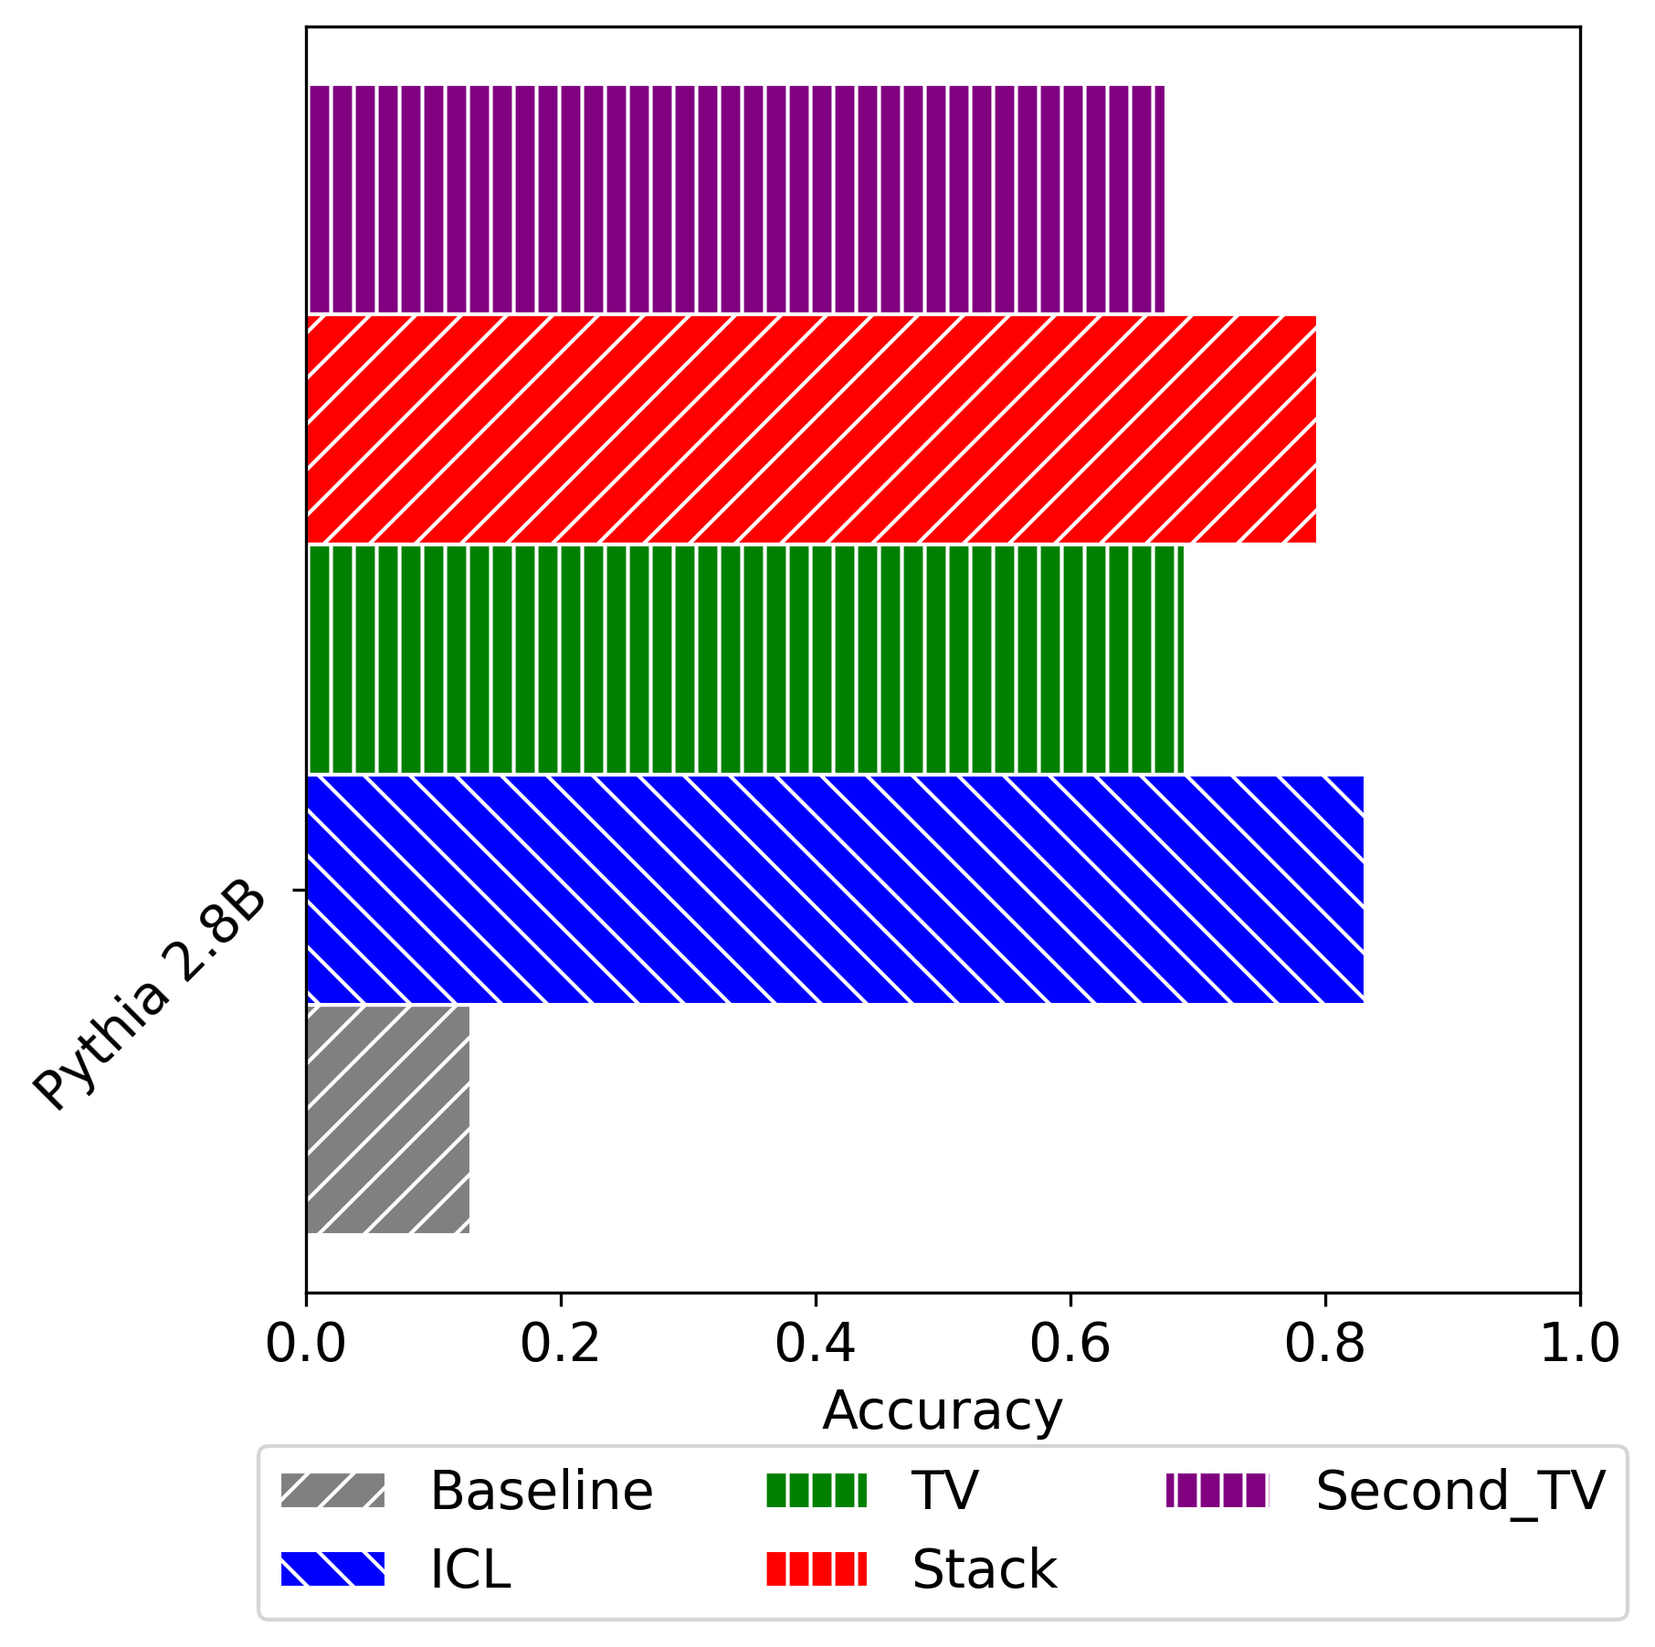
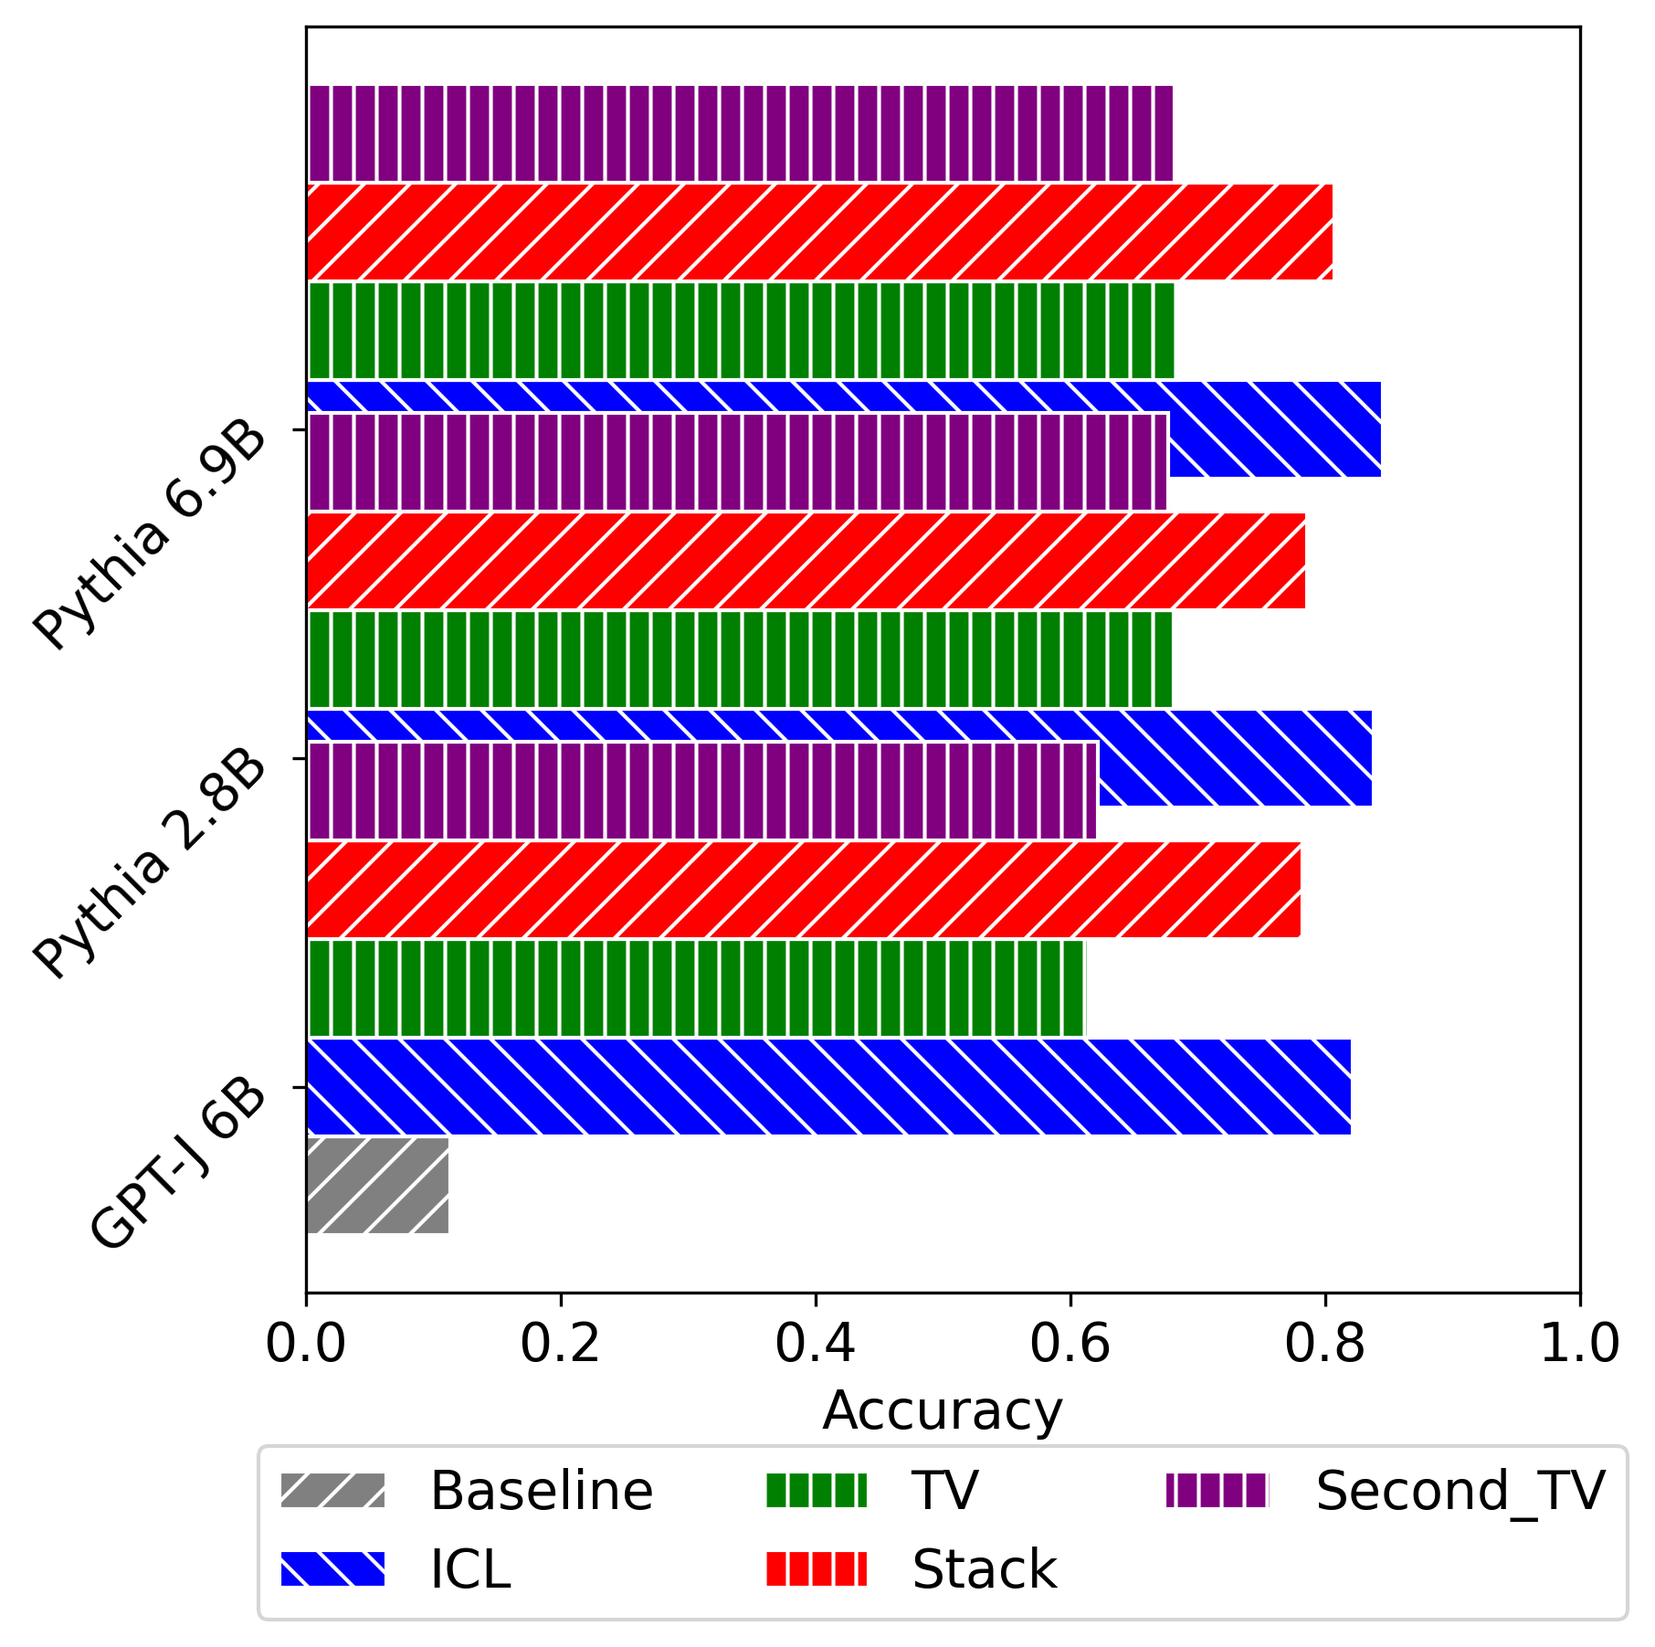
three layers

diff --git a/outputs/figures/main_experiment_results_table.tex b/outputs/figures/main_experiment_results_table.tex
@@ -19,27 +19,71 @@ Model & Task type & Task name &  &  &  &  &  \\
 \midrule
     \endhead
     
-\multirow[t]{18}{*}{Pythia 2.8B} & \multirow[t]{6}{*}{Algorithmic} & List first & 0.65 & 1.00 & 0.88 & 1.00 & 0.92 \\
- &  & List last & 0.02 & 1.00 & 0.97 & 0.99 & 0.93 \\
- &  & Next letter & 0.42 & 0.94 & 0.85 & 0.98 & 0.85 \\
- &  & Prev letter & 0.06 & 0.50 & 0.22 & 0.11 & 0.27 \\
- &  & To lower & 0.00 & 1.00 & 0.96 & 1.00 & 0.97 \\
- &  & To upper & 0.00 & 1.00 & 0.97 & 1.00 & 0.97 \\
+\multirow[t]{18}{*}{GPT-J 6B} & \multirow[t]{6}{*}{Algorithmic} & List first & 0.23 & 1.00 & 0.80 & 1.00 & 0.75 \\
+ &  & List last & 0.31 & 1.00 & 0.61 & 0.97 & 0.59 \\
+ &  & Next letter & 0.17 & 0.86 & 0.93 & 0.74 & 0.96 \\
+ &  & Prev letter & 0.14 & 0.38 & 0.30 & 0.34 & 0.31 \\
+ &  & To lower & 0.00 & 1.00 & 0.40 & 1.00 & 0.46 \\
+ &  & To upper & 0.00 & 1.00 & 0.81 & 1.00 & 0.89 \\
 \cline{2-8}
- & \multirow[t]{4}{*}{Knowledge} & Country capital & 0.12 & 0.64 & 0.53 & 0.60 & 0.51 \\
- &  & Location continent & 0.00 & 0.82 & 0.52 & 0.60 & 0.60 \\
- &  & Location religion & 0.04 & 0.87 & 0.70 & 0.78 & 0.69 \\
- &  & Person language & 0.01 & 0.80 & 0.75 & 0.82 & 0.76 \\
+ & \multirow[t]{4}{*}{Knowledge} & Country capital & 0.14 & 0.82 & 0.53 & 0.70 & 0.57 \\
+ &  & Location continent & 0.03 & 0.85 & 0.53 & 0.68 & 0.49 \\
+ &  & Location religion & 0.12 & 0.84 & 0.68 & 0.84 & 0.66 \\
+ &  & Person language & 0.02 & 0.82 & 0.69 & 0.79 & 0.70 \\
 \cline{2-8}
- & \multirow[t]{4}{*}{Linguistic} & Antonyms & 0.40 & 0.73 & 0.62 & 0.71 & 0.62 \\
- &  & Plural singular & 0.06 & 0.81 & 0.65 & 0.80 & 0.79 \\
- &  & Present simple gerund & 0.00 & 0.96 & 0.84 & 0.97 & 0.84 \\
- &  & Present simple past simple & 0.00 & 0.92 & 0.83 & 0.94 & 0.81 \\
+ & \multirow[t]{4}{*}{Linguistic} & Antonyms & 0.28 & 0.75 & 0.68 & 0.75 & 0.62 \\
+ &  & Plural singular & 0.07 & 0.88 & 0.76 & 0.84 & 0.75 \\
+ &  & Present simple gerund & 0.00 & 0.96 & 0.72 & 0.95 & 0.69 \\
+ &  & Present simple past simple & 0.01 & 0.96 & 0.59 & 0.94 & 0.56 \\
 \cline{2-8}
- & \multirow[t]{4}{*}{Translation} & En es & 0.07 & 0.76 & 0.18 & 0.77 & 0.23 \\
- &  & En fr & 0.13 & 0.57 & 0.34 & 0.62 & 0.36 \\
- &  & Es en & 0.16 & 0.85 & 0.70 & 0.83 & 0.66 \\
- &  & Fr en & 0.20 & 0.80 & 0.64 & 0.78 & 0.65 \\
+ & \multirow[t]{4}{*}{Translation} & En es & 0.17 & 0.49 & 0.36 & 0.44 & 0.34 \\
+ &  & En fr & 0.20 & 0.47 & 0.35 & 0.41 & 0.36 \\
+ &  & Es en & 0.07 & 0.88 & 0.80 & 0.85 & 0.74 \\
+ &  & Fr en & 0.08 & 0.82 & 0.66 & 0.85 & 0.61 \\
+\cline{1-8} \cline{2-8}
+\multirow[t]{18}{*}{Pythia 2.8B} & \multirow[t]{6}{*}{Algorithmic} & List first & 0.65 & 1.00 & 0.91 & 1.00 & 0.95 \\
+ &  & List last & 0.02 & 1.00 & 1.00 & 1.00 & 0.99 \\
+ &  & Next letter & 0.49 & 0.90 & 0.76 & 0.90 & 0.81 \\
+ &  & Prev letter & 0.05 & 0.44 & 0.24 & 0.14 & 0.26 \\
+ &  & To lower & 0.00 & 1.00 & 0.99 & 1.00 & 1.00 \\
+ &  & To upper & 0.00 & 1.00 & 0.96 & 1.00 & 0.99 \\
+\cline{2-8}
+ & \multirow[t]{4}{*}{Knowledge} & Country capital & 0.13 & 0.72 & 0.64 & 0.71 & 0.66 \\
+ &  & Location continent & 0.03 & 0.88 & 0.55 & 0.55 & 0.55 \\
+ &  & Location religion & 0.09 & 0.86 & 0.70 & 0.79 & 0.68 \\
+ &  & Person language & 0.02 & 0.80 & 0.74 & 0.76 & 0.66 \\
+\cline{2-8}
+ & \multirow[t]{4}{*}{Linguistic} & Antonyms & 0.42 & 0.81 & 0.71 & 0.82 & 0.69 \\
+ &  & Plural singular & 0.08 & 0.82 & 0.66 & 0.70 & 0.65 \\
+ &  & Present simple gerund & 0.00 & 0.99 & 0.84 & 0.97 & 0.86 \\
+ &  & Present simple past simple & 0.00 & 0.90 & 0.85 & 0.95 & 0.84 \\
+\cline{2-8}
+ & \multirow[t]{4}{*}{Translation} & En es & 0.07 & 0.68 & 0.16 & 0.71 & 0.16 \\
+ &  & En fr & 0.12 & 0.70 & 0.16 & 0.56 & 0.20 \\
+ &  & Es en & 0.07 & 0.82 & 0.69 & 0.80 & 0.68 \\
+ &  & Fr en & 0.17 & 0.76 & 0.62 & 0.76 & 0.64 \\
+\cline{1-8} \cline{2-8}
+\multirow[t]{18}{*}{Pythia 6.9B} & \multirow[t]{6}{*}{Algorithmic} & List first & 0.37 & 1.00 & 0.96 & 1.00 & 0.99 \\
+ &  & List last & 0.11 & 1.00 & 0.62 & 0.99 & 0.62 \\
+ &  & Next letter & 0.04 & 0.86 & 0.64 & 0.79 & 0.62 \\
+ &  & Prev letter & 0.08 & 0.35 & 0.26 & 0.17 & 0.25 \\
+ &  & To lower & 0.00 & 1.00 & 0.99 & 1.00 & 1.00 \\
+ &  & To upper & 0.00 & 1.00 & 0.84 & 1.00 & 0.82 \\
+\cline{2-8}
+ & \multirow[t]{4}{*}{Knowledge} & Country capital & 0.10 & 0.79 & 0.66 & 0.79 & 0.72 \\
+ &  & Location continent & 0.03 & 0.82 & 0.60 & 0.62 & 0.55 \\
+ &  & Location religion & 0.12 & 0.85 & 0.71 & 0.84 & 0.74 \\
+ &  & Person language & 0.02 & 0.82 & 0.71 & 0.84 & 0.72 \\
+\cline{2-8}
+ & \multirow[t]{4}{*}{Linguistic} & Antonyms & 0.39 & 0.84 & 0.68 & 0.88 & 0.72 \\
+ &  & Plural singular & 0.12 & 0.95 & 0.76 & 0.91 & 0.85 \\
+ &  & Present simple gerund & 0.00 & 0.99 & 0.86 & 0.95 & 0.85 \\
+ &  & Present simple past simple & 0.01 & 0.95 & 0.82 & 0.94 & 0.85 \\
+\cline{2-8}
+ & \multirow[t]{4}{*}{Translation} & En es & 0.14 & 0.68 & 0.36 & 0.65 & 0.33 \\
+ &  & En fr & 0.15 & 0.74 & 0.30 & 0.60 & 0.30 \\
+ &  & Es en & 0.07 & 0.86 & 0.81 & 0.86 & 0.75 \\
+ &  & Fr en & 0.14 & 0.71 & 0.68 & 0.70 & 0.61 \\
 \cline{1-8} \cline{2-8}
 \bottomrule
 \end{longtable}

diff --git a/scripts/figures/main.py b/scripts/figures/main.py
@@ -39,7 +39,7 @@ def filter_tasks_with_low_icl_accuracy(grouped_accuracies_df, regular_accuracy_t
 def plot_avg_accuracies_per_model(grouped_accuracies_df):
     filtered_task_accuracies_df = filter_tasks_with_low_icl_accuracy(grouped_accuracies_df)
 
-    columns_to_plot = ["Baseline", "Regular", "TV", "Stack", "Second_TV"]
+    columns_to_plot = ["Baseline", "Regular", "TV", "Stack", "Second_TV", "Third_TV"]
 
     # Calculate average accuracy and std deviation for each model
     df_agg = filtered_task_accuracies_df.groupby("model")[columns_to_plot].agg("mean")
@@ -56,7 +56,7 @@ def plot_avg_accuracies_per_model(grouped_accuracies_df):
     fig, ax = plt.subplots(figsize=(6, 6))
 
     bar_width = 0.3
-    hatches = ["/", "\\", "|", "/", "|"]
+    hatches = ["/", "\\", "|", "/", "\\", "|"]
     for j, column in enumerate(columns_to_plot):
         means = df_agg[column]
         y_positions = np.arange(len(means)) + (j - 1) * bar_width
@@ -66,7 +66,7 @@ def plot_avg_accuracies_per_model(grouped_accuracies_df):
             means,
             height=bar_width,
             capsize=2,
-            color=["grey", "blue", "green", "red", "purple"][j],
+            color=["grey", "blue", "green", "red", "purple", "cyan"][j],
             edgecolor="white",
             hatch=hatches[j] * 2,
         )
@@ -84,8 +84,9 @@ def plot_avg_accuracies_per_model(grouped_accuracies_df):
         Patch(facecolor="grey", edgecolor="white", hatch=hatches[0] * 2, label="Baseline"),
         Patch(facecolor="blue", edgecolor="white", hatch=hatches[1] * 2, label="ICL"),
         Patch(facecolor="green", edgecolor="white", hatch=hatches[2] * 2, label="TV"),
-        Patch(facecolor="red", edgecolor="white", hatch=hatches[2] * 2, label="Stack"),
-        Patch(facecolor="purple", edgecolor="white", hatch=hatches[2] * 2, label="Second_TV")
+        Patch(facecolor="red", edgecolor="white", hatch=hatches[3] * 2, label="Stack"),
+        Patch(facecolor="purple", edgecolor="white", hatch=hatches[4] * 2, label="Second_TV"),
+        Patch(facecolor="cyan", edgecolor="white", hatch=hatches[5] * 2, label="Third_TV")
     ]
     ax.legend(handles=legend_elements, loc="upper center", bbox_to_anchor=(0.5, -0.1), ncol=3)
 
@@ -119,7 +120,7 @@ def plot_accuracy_by_layer(results, model_names: List[str], normalize_x_axis: bo
     markers = ["o", "^", "s", "P", "X", "D", "v"]
 
     for idx, model_name in enumerate(model_names):
-        for acc_layer in ["tv_dev_accruacy_by_layer", "tv_dev_accruacy_by_layer2"]:
+        for acc_layer in ["tv_dev_accruacy_by_layer"]:#, "tv_dev_accruacy_by_layer2"]:
             min_num_layers = min(
                 len(results[model_name][task_name][acc_layer]) for task_name in results[model_name]
             )
@@ -244,7 +245,7 @@ def create_top_tokens_table(results):
         "knowledge_country_capital",
     ]
 
-    model_names = ["pythia_2.8B"]
+    model_names = ["pythia_2.8B", "gpt-j_6B"]
 
     df_data = {}
 
@@ -305,12 +306,12 @@ def create_all_figures(experiment_id: str):
     plot_avg_accuracies_per_model(grouped_accuracies_df)
   #  plot_accuracy_by_layer(results, model_names=["llama_7B", "llama_13B", "llama_30B"])
     plot_accuracy_by_layer(
-        results, model_names=["pythia_2.8B"], filename_suffix="_appendix"
+        results, model_names=["pythia_2.8B", "gpt-j_6B"], filename_suffix="_appendix"
     )
     create_results_latex_table(grouped_accuracies_df)
     create_top_tokens_table(results)
 
 
 if __name__ == "__main__":
-    experiment_id = "1"
+    experiment_id = "2"
     create_all_figures(experiment_id)

diff --git a/outputs/figures/top_tokens_table.tex b/outputs/figures/top_tokens_table.tex
@@ -2,10 +2,20 @@
 \toprule
  &  & 0 \\
 \midrule
-\multirow[t]{4}{*}{pythia_2.8B} & algorithmic_prev_letter & thous, aeda, preced, preceded, OOST, preceding, estern, ovember, prehens, e, previous, finishing, CURI, CLUDING, IRST, none, advertis, perty, f, gether \\
- & translation_fr_en & OOST, CURI, CHANT, Anchor, HECK, orect, IRST, BASIS, Lemmon, aturday, CLUDING, PLIED, RAF, rugged, quo, unnumbered, gree, fileID, ERTY, STITUTE \\
- & linguistic_present_simple_gerund & PLIED, RAF, CHANT, completing, OOST, YING, turning, satell, pretending, IRST, CLUDING, unnumbered, having, rv, cler, HECK, GAN, fileID, finishing, POSE \\
- & knowledge_country_capital & thous, answ, HECK, OOST, advertis, POSE, establ, CURI, laug, uncert, clust, acknow, NaN, orche, rg, ITERATION, IRST, redund, dun, therap \\
+\multirow[t]{4}{*}{pythia_2.8B} & algorithmic_prev_letter & thous, aeda, preced, preceded, OOST, preceding, e, estern, previous, finishing, none, prehens, ovember, f, FileType, CLUDING, IRST, bgcolor, alphabet, gether \\
+ & translation_fr_en & OOST, CHANT, CURI, HECK, orect, Anchor, IRST, Lemmon, aturday, BASIS, CLUDING, unnumbered, RAF, PLIED, fileID, rugged, quo, gree, empre, ERTY \\
+ & linguistic_present_simple_gerund & PLIED, RAF, CHANT, OOST, completing, satell, YING, turning, pretending, IRST, CLUDING, unnumbered, fileID, having, HECK, heed, referring, cler, rv, GAN \\
+ & knowledge_country_capital & thous, answ, HECK, OOST, advertis, POSE, laug, establ, uncert, CURI, clust, acknow, orche, IRST, NaN, strugg, ITERATION, rg, satell, therap \\
+\cline{1-3}
+\multirow[t]{4}{*}{gpt-j_6B} & algorithmic_prev_letter & b, c, g, v, name, s, i, ro, n, ai, j, A, t, m, d, com, test, ust, active, ms \\
+ & translation_fr_en & social, other, heart, the, c, name, main, time, force, money, life, user, law, head, car, true, game, court, is, type \\
+ & linguistic_present_simple_gerund & working, playing, getting, storing, driving, doing, moving, selling, shooting, picking, beating, sending, writing, feeding, planning, killing, teaching, searching, making, the \\
+ & knowledge_country_capital & London, Paris, West, South, Tokyo, New, Philadelphia, East, City, Berlin, Chicago, San, Jerusalem, Moscow, cities, North, Athens, Toronto, Beijing, The \\
+\cline{1-3}
+\multirow[t]{4}{*}{pythia_6.9B} & algorithmic_prev_letter & e, d, m, a, b, r, t, i, c, k, l, s, f, v, g, n, h, w, p, o \\
+ & translation_fr_en & d, mark, f, l, m, n, o, number, e, body, free, t, pl, a, name, in, end, surface, and, c \\
+ & linguistic_present_simple_gerund & f, m, l, n, d, a, un, dem, ar, pl, mark, and, o, in, the, end, E, leading, over, ro \\
+ & knowledge_country_capital & L, central, N, K, B, the, M, T, D, S, U, West, its, a, O, Al, F, P, J, un \\
 \cline{1-3}
 \bottomrule
 \end{tabular}

diff --git a/core/task_vectors.py b/core/task_vectors.py
@@ -129,10 +129,10 @@ def run_stack_task_vector(
         include_train=True
     )
 
-    # stack twice
+    # stack twice hidden
     new_task_hiddens = get_task_hiddens(model, tokenizer, task, new_test_datasets, multi_context=multi_context,
                                         moderate=True, prev_hiddens=task_hiddens, prev_intermediate_layer=best_intermediate_layer)
-
+    """
     dev_accuracy_by_layer_second = task_vector_accuracy_by_layer(
         model,
         tokenizer,
@@ -145,7 +145,8 @@ def run_stack_task_vector(
         prev_intermediate_layer=best_intermediate_layer
     )
     best_intermediate_layer_second = int(max(dev_accuracy_by_layer_second, key=dev_accuracy_by_layer_second.get))
-    print('compare', best_intermediate_layer, best_intermediate_layer_second)
+    """
+    best_intermediate_layer_second = best_intermediate_layer
     second_predictions_stack = modulated_generate(
         model,
         tokenizer,
@@ -155,7 +156,39 @@ def run_stack_task_vector(
         intermediate_layer=best_intermediate_layer_second,
   #      include_train=True
     )
-    return predictions, predictions_stack, second_predictions_stack, dev_accuracy_by_layer, task_hiddens, dev_accuracy_by_layer_second
+
+    # stack three times
+    new_ins = []
+    new_outs = []
+    for idx, dataset in enumerate(test_datasets):
+        exclude_samples = [dataset.test_input] + dataset.train_inputs
+        new_in = task.sample_inputs(num_examples, exclude=exclude_samples)
+        new_ins.append(new_in)
+        new_out = [task.calc_output(x) for x in new_in]
+        new_outs.append(new_out)
+    new_test_datasets = [
+        FewShotDataset(
+            train_inputs=new_ins[idx],
+            train_outputs=new_outs[idx],
+            test_input=dataset.test_input,
+            test_output=task.calc_output(dataset.test_input),
+        )
+        for idx, dataset in enumerate(test_datasets)
+    ]
+    new_task_hiddens = get_task_hiddens(model, tokenizer, task, new_test_datasets, multi_context=multi_context,
+                                        moderate=True, prev_hiddens=new_task_hiddens,
+                                        prev_intermediate_layer=best_intermediate_layer)
+    best_intermediate_layer_third = best_intermediate_layer
+    third_predictions_stack = modulated_generate(
+        model,
+        tokenizer,
+        task,
+        test_datasets,
+        task_hiddens=new_task_hiddens,
+        intermediate_layer=best_intermediate_layer_third,
+        #      include_train=True
+    )
+    return predictions, predictions_stack, second_predictions_stack, dev_accuracy_by_layer, task_hiddens, third_predictions_stack
 
 def run_overriding_task_vector(
     model: PreTrainedModel,

diff --git a/scripts/experiments/main.py b/scripts/experiments/main.py
@@ -46,7 +46,7 @@ def evaluate_task(model: PreTrainedModel, tokenizer: PreTrainedTokenizer, task_n
     test_datasets = task.create_datasets(num_datasets=num_test_datasets, num_examples=num_examples)
     dev_datasets = task.create_datasets(num_datasets=num_dev_datasets, num_examples=num_examples)
     icl_predictions = run_icl(model, tokenizer, task, test_datasets)
-    tv_predictions, tv_predictions_stack, tv_predictions_stack_2, tv_dev_accuracy_by_layer, task_hiddens, tv_dev_accuracy_by_layer2 = run_stack_task_vector(
+    tv_predictions, tv_predictions_stack, tv_predictions_stack_2, tv_dev_accuracy_by_layer, task_hiddens, tv_predictions_stack_3 = run_stack_task_vector(
         model,
         tokenizer,
         task,
@@ -56,11 +56,11 @@ def evaluate_task(model: PreTrainedModel, tokenizer: PreTrainedTokenizer, task_n
         num_examples=num_examples
     )
     accuracies["tv_dev_by_layer"] = tv_dev_accuracy_by_layer
-    accuracies["tv_dev_by_layer2"] = tv_dev_accuracy_by_layer2
     accuracies["icl"] = calculate_accuracy_on_datasets(task, icl_predictions, test_datasets)
     accuracies["tv"] = calculate_accuracy_on_datasets(task, tv_predictions, test_datasets)
     accuracies["tv_stack"] = calculate_accuracy_on_datasets(task, tv_predictions_stack, test_datasets)
     accuracies["tv_stack2"] = calculate_accuracy_on_datasets(task, tv_predictions_stack_2, test_datasets)
+    accuracies["tv_stack3"] = calculate_accuracy_on_datasets(task, tv_predictions_stack_3, test_datasets)
 
     tv_ordered_tokens_by_layer = {}
     try:
@@ -121,6 +121,7 @@ def run_main_experiment(
         print(f"Task Vector Accuracy: {accuracies['tv']:.2f}")
         print(f"Stack Task Vector Accuracy: {accuracies['tv_stack']:.2f}")
         print(f"Second Stack Task Vector Accuracy: {accuracies['tv_stack2']:.2f}")
+        print(f"Third Stack Task Vector Accuracy: {accuracies['tv_stack3']:.2f}")
 
         print(f"Dev Accuracy by layer: ", end="")
         for layer, accuracy in accuracies["tv_dev_by_layer"].items():
@@ -135,8 +136,8 @@ def run_main_experiment(
             "tv_accuracy": accuracies["tv"],
             "stack_tv_accuracy": accuracies["tv_stack"],
             "second_tv_accuracy": accuracies["tv_stack2"],
+            "third_tv_accuracy": accuracies["tv_stack3"],
             "tv_dev_accruacy_by_layer": accuracies["tv_dev_by_layer"],
-            "tv_dev_accruacy_by_layer2": accuracies["tv_dev_by_layer2"],
             "tv_ordered_tokens_by_layer": tv_ordered_tokens_by_layer,
         }
 

diff --git a/scripts/figures/helpers.py b/scripts/figures/helpers.py
@@ -73,6 +73,7 @@ def create_accuracies_df(results):
             data.append([model_name, task_type, task_name, "TV", task_acc["tv"]])
             data.append([model_name, task_type, task_name, "Stack", task_acc["stack_tv_accuracy"]])
             data.append([model_name, task_type, task_name, "Second_TV", task_acc["second_tv_accuracy"]])
+            data.append([model_name, task_type, task_name, "Third_TV", task_acc["third_tv_accuracy"]])
 
 
     df = pd.DataFrame(data, columns=["model", "task_type", "task_name", "method", "accuracy"])

diff --git a/core/experiments_config.py b/core/experiments_config.py
@@ -25,7 +25,7 @@ TASKS_TO_EVALUATE = [
 ]
 
 #MODELS_TO_EVALUATE = [("pythia", "2.8B"), ("gpt-j", "6B"), ("pythia", "6.9B")]
-MODELS_TO_EVALUATE = [("pythia", "2.8B"), ("gpt-j", "6B"), ("pythia", "6.9B")]
+MODELS_TO_EVALUATE = [("pythia", "2.8B"), ("gpt-j", "6B")]
 MODELS_TO_EVALUATE_A = [
     # ("gpt-2", "1.5B"),
     ("pythia", "2.8B"),
